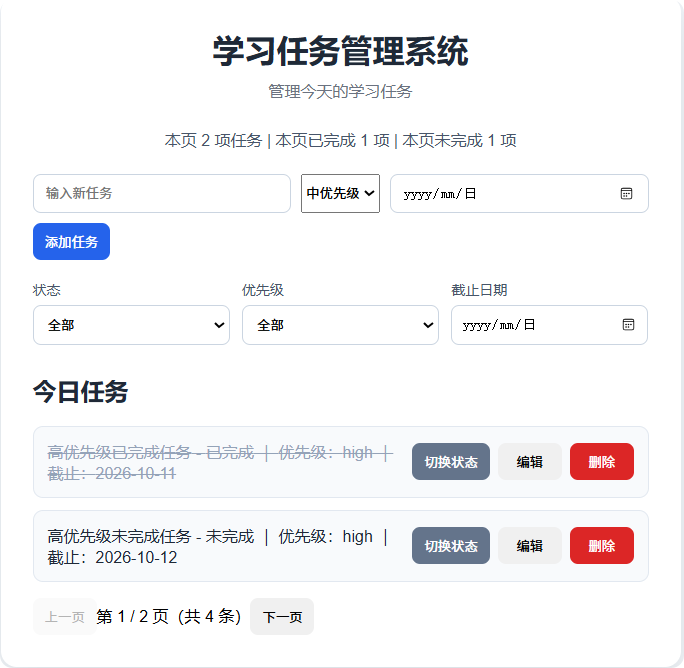
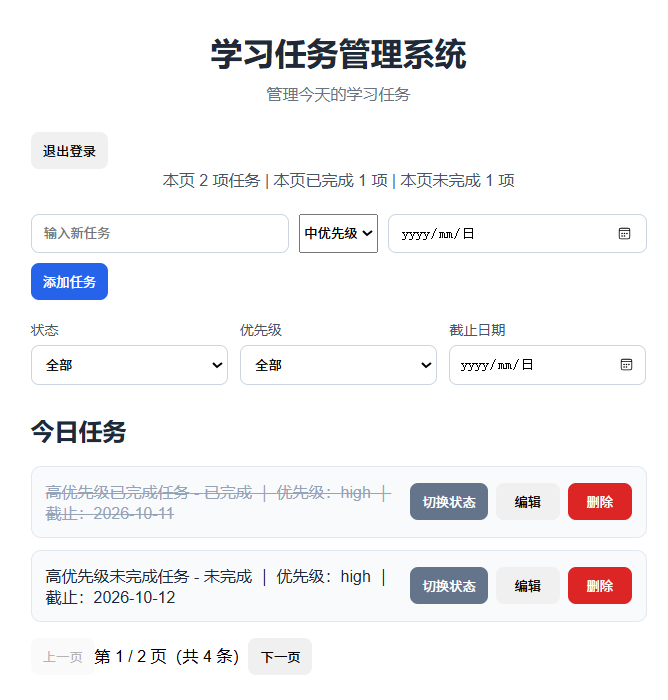
增加注册登录、用户任务隔离接入和页面截图

diff --git a/src/App.jsx b/src/App.jsx
@@ -1,4 +1,5 @@
-import { useEffect,useState } from 'react'
+import { useCallback, useEffect, useState } from 'react'
+import LoginForm from './LoginForm'
 import './App.css'
 
 function TaskItem(props) {
@@ -164,7 +165,7 @@ function TaskForm(props) {
   )
 }
 
-function App() {
+function TaskManager({ token, onLogout }) {
   const [tasks, setTasks] = useState([])
   const [loading,setLoading]= useState(true)  /* 是否正在加载  正在加载返回true  加载结束返回false*/
   const [loadError,setLoadError] = useState('')   /* 加载失败*/
@@ -179,6 +180,23 @@ function App() {
   const totalCount =tasks.length
   const completedCount = tasks.filter((task) => task.done).length
   const unfinishedCount = tasks.filter((task) => !task.done).length
+  
+  const fetchWithAuth = useCallback(async (url, options = {}) => {
+    const response = await fetch(url, {
+      ...options,
+      headers: {
+        ...options.headers,
+        Authorization: `Bearer ${token}`,
+      },
+    })
+
+    if (response.status === 401) {
+      onLogout('登录状态已失效，请重新登录')
+      throw new Error('登录状态已失效')
+    }
+
+    return response
+  }, [token, onLogout])
 
   const filteredTasks = tasks.filter((task) =>{  /*filteredTasks筛选后的任务列表*/
      if (statusFilter === 'done' && !task.done){
@@ -227,7 +245,7 @@ function App() {
               params.set("due_date", dueDateFilter)
             }
 
-            const response = await fetch(
+            const response = await fetchWithAuth(
               `http://127.0.0.1:8000/tasks?${params.toString()}`
             )        
 
@@ -247,12 +265,18 @@ function App() {
     }
 
     loadTasks()
-  },[currentPage, statusFilter, priorityFilter, dueDateFilter])
+    }, [
+    currentPage,
+    statusFilter,
+    priorityFilter,
+    dueDateFilter,
+    fetchWithAuth,
+  ])
 
   async  function addTask(name, priority, dueDate) {
      setActionError('')
      try{
-         const response = await fetch('http://127.0.0.1:8000/tasks',{
+         const response = await fetchWithAuth('http://127.0.0.1:8000/tasks',{
          method :'POST',
          headers:{
             'Content-Type':'application/json',
@@ -282,7 +306,7 @@ function App() {
   async function deleteTask(id) {
     setActionError('')
     try{
-         const response = await fetch(
+         const response = await fetchWithAuth(
            `http://127.0.0.1:8000/tasks/${id}`,
            {
              method: 'DELETE',
@@ -307,7 +331,7 @@ function App() {
     }
     setActionError('')
     try{
-           const response = await fetch(
+           const response = await fetchWithAuth(
                 `http://127.0.0.1:8000/tasks/${id}`,
                 {
                     method :'PATCH',
@@ -348,7 +372,7 @@ function App() {
      setActionError('')
 
    try {
-    const response = await fetch(
+    const response = await fetchWithAuth(
       `http://127.0.0.1:8000/tasks/${id}`,
       {
         method: 'PATCH',
@@ -388,6 +412,9 @@ function App() {
     <main className="app">
       <h1>学习任务管理系统</h1>
       <p className="subtitle">管理今天的学习任务</p>
+      <button type="button" onClick={() => onLogout()}>
+          退出登录
+      </button>
       <p className="task-summary">
           本页 {totalCount} 项任务 | 本页已完成 {completedCount} 项 | 本页未完成 {unfinishedCount} 项
       </p>
@@ -493,6 +520,43 @@ function App() {
        </div>
       )}
     </main>
+  )
+}
+
+
+function App() {
+  const [token, setToken] = useState('')
+  const [authMessage, setAuthMessage] = useState('')
+
+  const handleLogout = useCallback((message = '') => {
+    setToken('')
+    setAuthMessage(message)
+  }, [])
+
+  if (!token) {
+    return (
+      <main className="app">
+        <h1>学习任务管理系统</h1>
+
+        {authMessage && (
+          <p className="error-message">{authMessage}</p>
+        )}
+
+        <LoginForm
+          onLogin={(newToken) => {
+            setAuthMessage('')
+            setToken(newToken)
+          }}
+        />
+      </main>
+    )
+  }
+
+  return (
+    <TaskManager
+      token={token}
+      onLogout={handleLogout}
+    />
   )
 }
 

diff --git a/src/LoginForm.jsx b/src/LoginForm.jsx
@@ -1,0 +1,131 @@
+import { useState } from 'react'
+
+export default function LoginForm({ onLogin }) {
+  const [username, setUsername] = useState('')
+  const [password, setPassword] = useState('')
+  const [isRegister, setIsRegister] = useState(false)
+  const [error, setError] = useState('')
+  const [notice, setNotice] = useState('')
+  const [submitting, setSubmitting] = useState(false)
+
+  // 切换登录和注册表单
+  function switchMode() {
+    setIsRegister(!isRegister)
+    setPassword('')
+    setError('')
+    setNotice('')
+  }
+
+  async function handleSubmit(event) {
+    event.preventDefault()
+    if (submitting) return
+
+    setError('')
+    setNotice('')
+    setSubmitting(true)
+
+    try {
+      const endpoint = isRegister ? 'register' : 'login'
+
+      const response = await fetch(
+        `http://127.0.0.1:8000/auth/${endpoint}`,
+        {
+          method: 'POST',
+          headers: {
+            'Content-Type': 'application/json',
+          },
+          body: JSON.stringify({
+            username: username.trim(),
+            password: password,
+          }),
+        }
+      )
+
+      const data = await response.json()
+
+      if (!response.ok) {
+        throw new Error(
+          typeof data.detail === 'string'
+            ? data.detail
+            : '提交失败，请检查用户名和密码格式'
+        )
+      }
+
+      // 注册成功不代表已登录，切回登录表单
+      if (isRegister) {
+        setIsRegister(false)
+        setPassword('')
+        setNotice('注册成功，请输入密码登录')
+        return
+      }
+
+      if (typeof data.access_token !== 'string' || !data.access_token) {
+        throw new Error('登录响应缺少凭证')
+      }
+
+      setPassword('')
+      onLogin(data.access_token)
+    } catch (error) {
+      setError(
+        error instanceof TypeError
+          ? '无法连接后端，请检查后端服务和网络'
+          : error.message
+      )
+    } finally {
+      setSubmitting(false)
+    }
+  }
+
+  return (
+    <form onSubmit={handleSubmit}>
+      <h2>{isRegister ? '注册账号' : '登录'}</h2>
+
+      {isRegister && (
+        <p>用户名为 3～50 位字母、数字或下划线，密码为 8～128 个字符。</p>
+      )}
+
+      <label>
+        用户名
+        <input
+          value={username}
+          onChange={(event) => setUsername(event.target.value)}
+          autoComplete="username"
+          minLength={isRegister ? 3 : 1}
+          maxLength={50}
+          pattern={isRegister ? '[a-zA-Z0-9_]+' : undefined}
+          disabled={submitting}
+          required
+        />
+      </label>
+
+      <label>
+        密码
+        <input
+          type="password"
+          value={password}
+          onChange={(event) => setPassword(event.target.value)}
+          autoComplete={isRegister ? 'new-password' : 'current-password'}
+          minLength={isRegister ? 8 : 1}
+          maxLength={128}
+          disabled={submitting}
+          required
+        />
+      </label>
+
+      {error && <p className="error-message">{error}</p>}
+      {notice && <p role="status">{notice}</p>}
+
+      <button type="submit" disabled={submitting}>
+        {submitting ? '正在提交...' : isRegister ? '注册' : '登录'}
+      </button>
+
+      <button
+        type="button"
+        onClick={switchMode}
+        disabled={submitting}
+      >
+        {isRegister ? '已有账号，去登录' : '没有账号，去注册'}
+      </button>
+    </form>
+  )
+}

diff --git a/README.md b/README.md
@@ -1,50 +1,63 @@
 # 学习任务管理系统前端
 
-基于 React 和 Vite 的学习任务管理系统前端，调用 FastAPI 后端接口完成任务管理。
+基于 React 和 Vite，调用 FastAPI 后端完成用户认证与任务管理。
 
-后端仓库：[study-task-manager-backend](https://github.com/wen04115/study-task-manager-backend)
+后端：[study-task-manager-backend](https://github.com/wen04115/study-task-manager-backend)
 
 ## 核心功能
 
-- 新增、编辑、删除任务
-- 设置任务优先级和截止日期
-- 切换已完成 / 未完成状态
-- 按状态、优先级、截止日期筛选任务
-- 支持排序和分页展示
-- 展示任务总数、已完成和未完成数量
-- 请求加载、失败和空列表状态提示
+- 用户注册、登录和退出
+- 请求自动携带 JWT 登录凭证
+- 登录凭证失效时返回登录页面并提示
+- 新增、编辑、删除任务，切换完成状态
+- 设置优先级和截止日期
+- 按状态、优先级、截止日期筛选及分页展示
+- 展示当前页任务数量和完成情况
 
 ## 技术栈
 
-- React
-- JavaScript
-- Vite
-- CSS
-- Fetch API
-
-## 前后端协作
-
-React 通过 Fetch API 调用 FastAPI 接口；后端读写 MySQL 后返回任务数据，前端根据响应更新页面。
+React、JavaScript、Vite、CSS、Fetch API。
 
 ## 本地运行
 
-启动后端：
-```powershell
-cd day7_api
-uvicorn main:app --reload --port 8000
+先按照后端 README 启动 MySQL 和 FastAPI，后端地址为：
 
-启动前端：
-cd ai-study-react
+http://127.0.0.1:8000
+
+在前端项目根目录安装依赖并启动：
+
+```powershell
 npm install
 npm run dev
+```
 
-浏览器访问：
-http://localhost:5173
+浏览器打开终端实际显示的 Local 地址。
 
-设计说明
-- 前后端端口不同，后端通过 CORS 允许前端请求。
-- 任务数据持久化到 MySQL，刷新页面后仍可读取。
-- 前端对加载失败、空任务和空名称等情况提供提示。
+如果端口被占用，Vite 可能选择其他端口；后端 CORS 配置需要允许对应的前端地址。
+
+## 登录与数据隔离
+
+- 没有账号时，可在登录页面切换到注册表单
+- 注册成功后，使用新账号登录
+- JWT 只保存在页面内存中，刷新后需要重新登录
+- 退出登录会清除前端登录状态和任务页面状态
+- 退出不会在服务端立即作废已签发的 JWT
+- 任务归属由后端根据当前登录用户确定
+- 用户隔离由后端执行，不依赖前端隐藏数据
+
+## 手动验证
+
+1. 注册并登录账号 A，创建一条测试任务。
+2. 验证编辑、切换状态和删除功能。
+3. 退出后登录账号 B，确认看不到账号 A 的任务。
+4. 刷新页面，确认需要重新登录。
 
 ## 项目截图
+
+### 登录与注册入口
+
+![登录页面](./login-page.png)
+
+### 任务管理
+
 ![任务管理页面](./task-manager-page.png)
